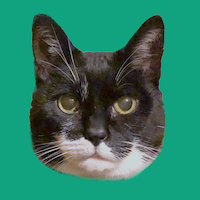
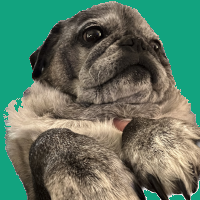
s/cat/dog/g

diff --git a/index.html b/index.html
@@ -8,16 +8,16 @@
     <link href="style.css" rel="stylesheet" />
     <link href="https://cdnjs.cloudflare.com/ajax/libs/font-awesome/5.15.1/css/all.min.css" rel="stylesheet" />
     
-    <title>CatGPT</title>
-    <meta name="description" content="What if ChatGPT were a cat?">
+    <title>DogGPT</title>
+    <meta name="description" content="What if ChatGPT were a dog?">
 </head>
 
 <body>
 
     <div id="container">
         <div class="header">
-            <h1>CatGPT</h1>
-            <p>What if ChatGPT were a cat?</p>
+            <h1>DogGPT</h1>
+            <p>What if ChatGPT were a dog?</p>
         </div>
         <div id="chatcontainer">
 
@@ -25,7 +25,7 @@
                 <div class="chat-bubble-container chat-gpt-bubble-container">
                     <div class="profile-picture"><img src="avatar.png" height="100%" /></div>
                     <div class="chat-bubble chat-gpt-bubble">
-                        Meow, meow meow meow, meow meow?
+                        Woof, woof woof woof, woof woof?
                     </div>
                 </div>
 
@@ -67,25 +67,25 @@
                 chatArea.appendChild(newBubbleContainer);
                 userInput.value = ""; // Clear the input vield
 
-                // Generate the CatGPT response
-                var numberOfMeows = Math.floor(Math.random() * 15); // Random number of meows between 0 and 14.
-                var meows = "Meow"; // Always start with 1 capitalized meow
+                // Generate the DogGPT response
+                var numberOfMeows = Math.floor(Math.random() * 15); // Random number of woofs between 0 and 14.
+                var woofs = "Woof"; // Always start with 1 capitalized woof
                 if (numberOfMeows == 0) {
-                    meows += "." // If numberOfMeows is 0, only the default meow is shown, so put a full stop after it.
+                    woofs += "." // If numberOfMeows is 0, only the default woof is shown, so put a full stop after it.
                 } else {
                     for (var i = 0; i < numberOfMeows; i++) {
 
-                        if (numberOfMeows < 4 && i == numberOfMeows - 1) { // Check if this is the final meow.
-                            meows += " meow!"; // Three meows or fewer gets an exclamation point.
+                        if (numberOfMeows < 4 && i == numberOfMeows - 1) { // Check if this is the final woof.
+                            woofs += " woof!"; // Three woofs or fewer gets an exclamation point.
                         } else if (i == numberOfMeows - 1) {
-                            meows += " meow."; // Longer replies get a full stop.
+                            woofs += " woof."; // Longer replies get a full stop.
                         } else {
-                            meows += " meow"; // If it is not the last meow, just return a meow.
+                            woofs += " woof"; // If it is not the last woof, just return a woof.
                         }
                     }
                 }
 
-                // Show the CatGPT response in a new chat-gpt-bubble, wrapped in a chat-bubble-container
+                // Show the DogGPT response in a new chat-gpt-bubble, wrapped in a chat-bubble-container
                 let newBubble2Container = document.createElement("div")
                 newBubble2Container.classList.add("chat-bubble-container", "chat-gpt-bubble-container")
                 newBubble2Container.innerHTML = '<div class="profile-picture"><img src="avatar.png" height="100%" /></div>'
@@ -98,11 +98,11 @@
                 let currentMeow = 0
 
                 let meowLoop = setInterval(() => { // Interval to show more of the reply every 100 milliseconds (simulating typing behaviour)
-                    if (currentMeow < meows.length) {
+                    if (currentMeow < woofs.length) {
                         currentMeow += Math.floor(Math.random() * 10) // Show between 0 and 10 more characters
-                        newBubble2.innerHTML = meows.slice(0, currentMeow) + "█"; // While typing, end the string with a block character
+                        newBubble2.innerHTML = woofs.slice(0, currentMeow) + "█"; // While typing, end the string with a block character
                     } else {
-                        newBubble2.innerHTML = meows; // When finished, put the entire response in the bubble, without block character
+                        newBubble2.innerHTML = woofs; // When finished, put the entire response in the bubble, without block character
                         clearInterval(meowLoop);
                         userInput.focus(); // Focus the input again, so user can type a new response
                     }
@@ -114,13 +114,13 @@
         form.addEventListener("submit", handleSubmit); // Handle default submit (e.g. pressing enter)
 
         const infoText = [
-            "Hi! I'm Wouter. I made this site for fun, and to try out programming with ChatGPT.",
-            "To be clear: this site does not actually use ChatGPT or any other form of AI. It just returns a random number of meows. Nothing is done with your input either.",
+            "Hi! I forked this from Wouter's CatGPT. ",
+            "To be clear: this site does not actually use ChatGPT or any other form of AI. It just returns a random number of woofs. Nothing is done with your input either.",
             "I did use ChatGPT to help build it. I found it was a very easy way to create a basic website structure. ChatGPT also generated the JavaScript for this site.",
             "However, once the page was more complicated, any changes would break the page. Sometimes, ChatGPT introduced elements I never asked for.",
             "So in summary, it's great as a starting point, or to save you some time, but won't replace humans quite yet.",
             "Some credits: the airplane icon is from FontAwesome, the user avatar is from Iconsax. The cat is my own cat, Suus.",
-            'If you want to know more, <a href="https://github.com/woutervdijke/catgpt" target="_blank">check out the code on Github</a>, or send me a message <a href="https://twitter.com/woutervd" target="_blank">on Twitter</a>!'
+            'If you want to know more, <a href="https://github.com/woutervdijke/catgpt" target="_blank">check out the code on Github</a>!'
         ] // Lines of the information chat
 
 
@@ -130,7 +130,7 @@
             // Create a chat-bubble-container
             let newBubble3Container = document.createElement("div")
             newBubble3Container.classList.add("chat-bubble-container", "wouter-bubble-container")
-            newBubble3Container.innerHTML = '<div class="profile-picture"><img src="wouter.jpeg" height="100%" /></div>'
+            newBubble3Container.innerHTML = '<div class="profile-picture"><img src="user.png" height="100%" /></div>'
      
             function createLine(i) { // Create each line seperately, one at a time
                 if (i < infoText.length) { // Check if the line exists

diff --git a/README.md b/README.md
@@ -1,17 +1,17 @@
-# CatGPT
+# DogGPT
 *What if ChatGPT were a cat?*
 
-ChatGPT is boring. I want a cat to answer my questions. So I built CatGPT!
+ChatGPT is boring. I want a cat to answer my questions. So I built DogGPT! Actually, I forked https://github.com/woutervdijke/catgpt and did a search and replace...
 
 ## Demo
-Try CatGPT at [catgpt.wvd.io](https://catgpt.wvd.io)
+Try DogGPT at [doggpt.wvd.io](https://catgpt.wvd.io)
 
 <img src="https://user-images.githubusercontent.com/15675775/215778138-072b609a-e282-46a4-b345-3f524a85765f.jpg" width="500" height="auto" />
 
 ## How?
-The latest in pawtifurcial intelligence, CatGPT uses a purr-al network and an advanced hairballgorithm to come up with natural-sounding responses.
+The latest in pawtifurcial intelligence, DogGPT uses a grrrr-al network and an advanced tennisballgorithm to come up with natural-sounding responses.
 
-Not really though, it just returns random meows. 
+Not really though, it just returns random woofs. 
 
 ## Why?
 I made this site for fun, and to try out programming with ChatGPT.
@@ -28,5 +28,5 @@ In summary, the ChatGPT use case I see is to get a quick basic structure as a st
 ### Some credits
 The airplane icon is from FontAwesome, the user avatar is from Iconsax. The site lives on Netlify, I use Counter.dev to get some statistics.
 
-The cat in the image is called Suus.
+The cat in the image is called Teddy.
 
